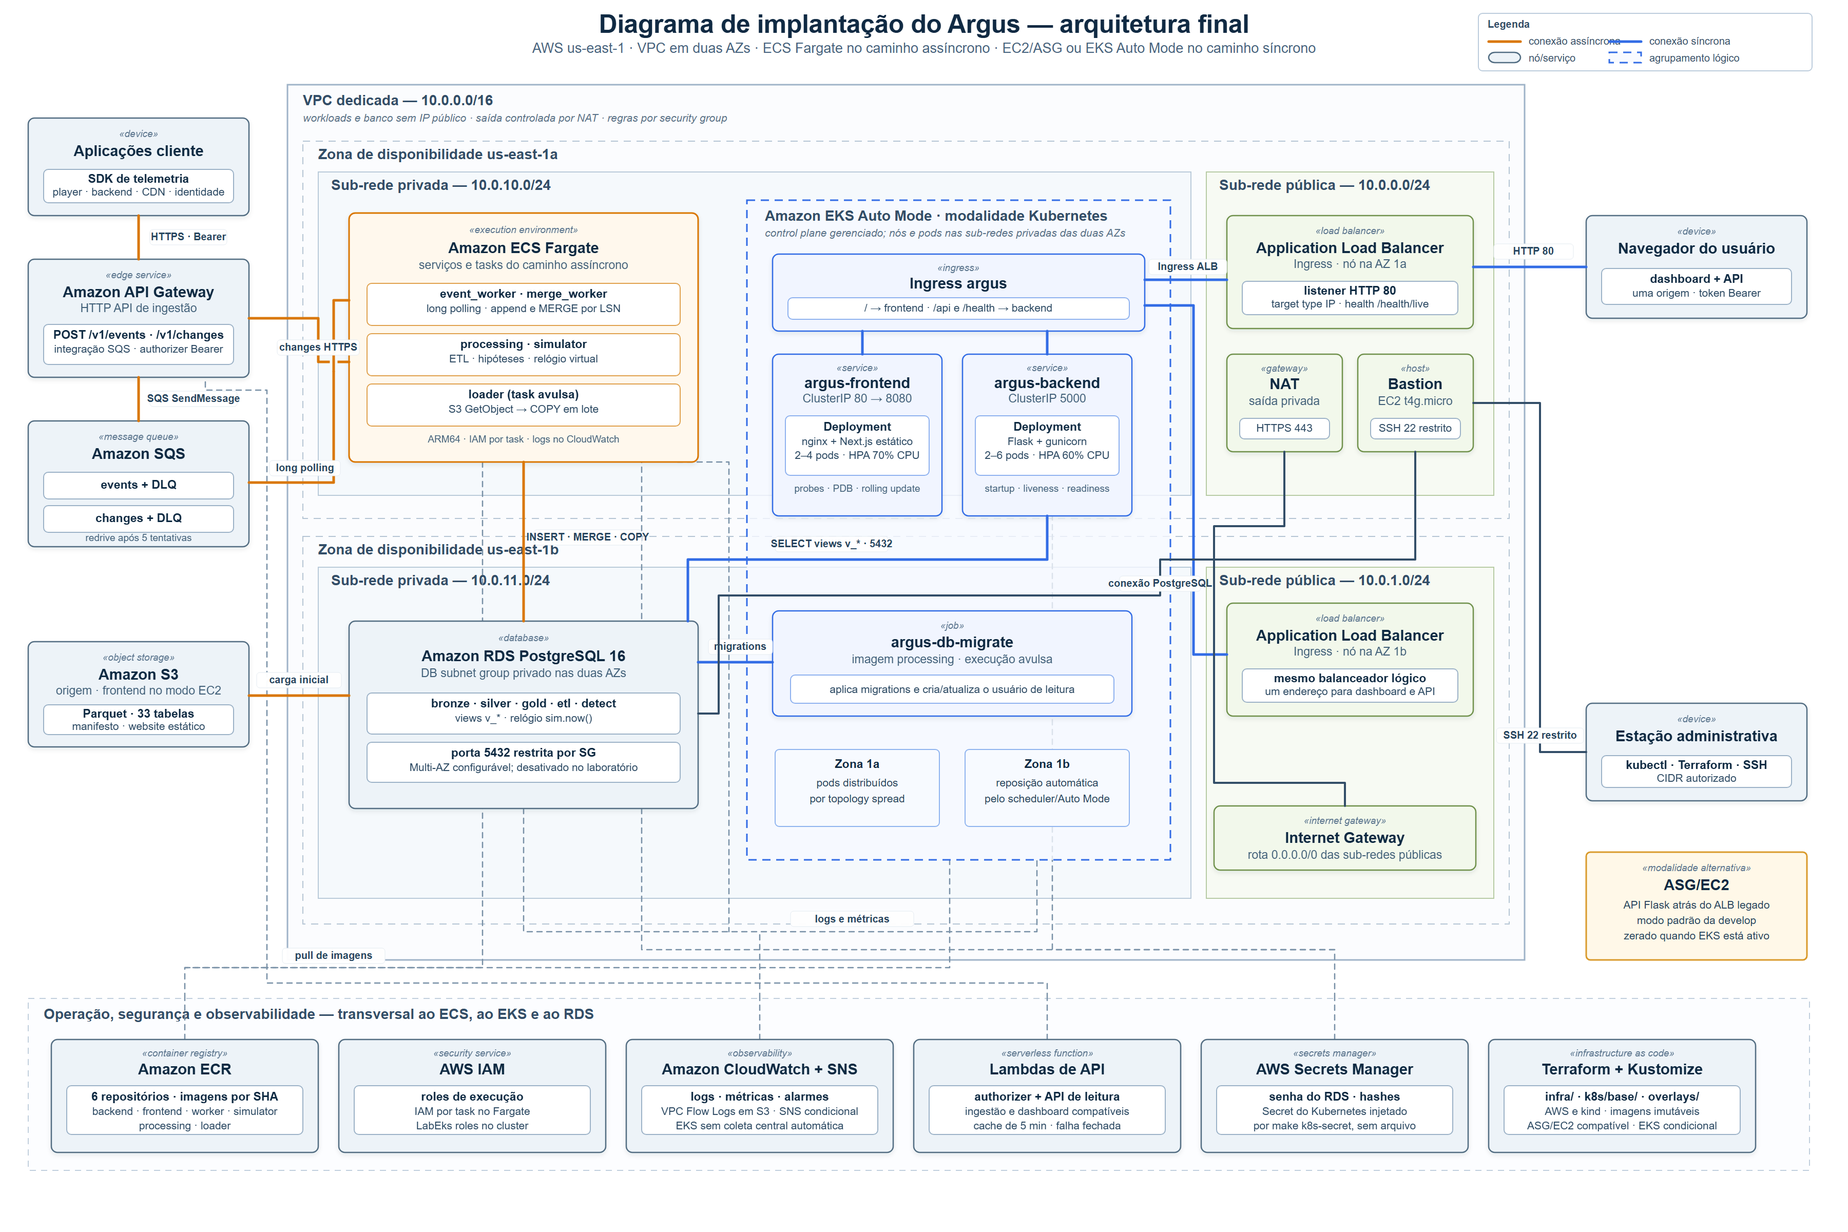
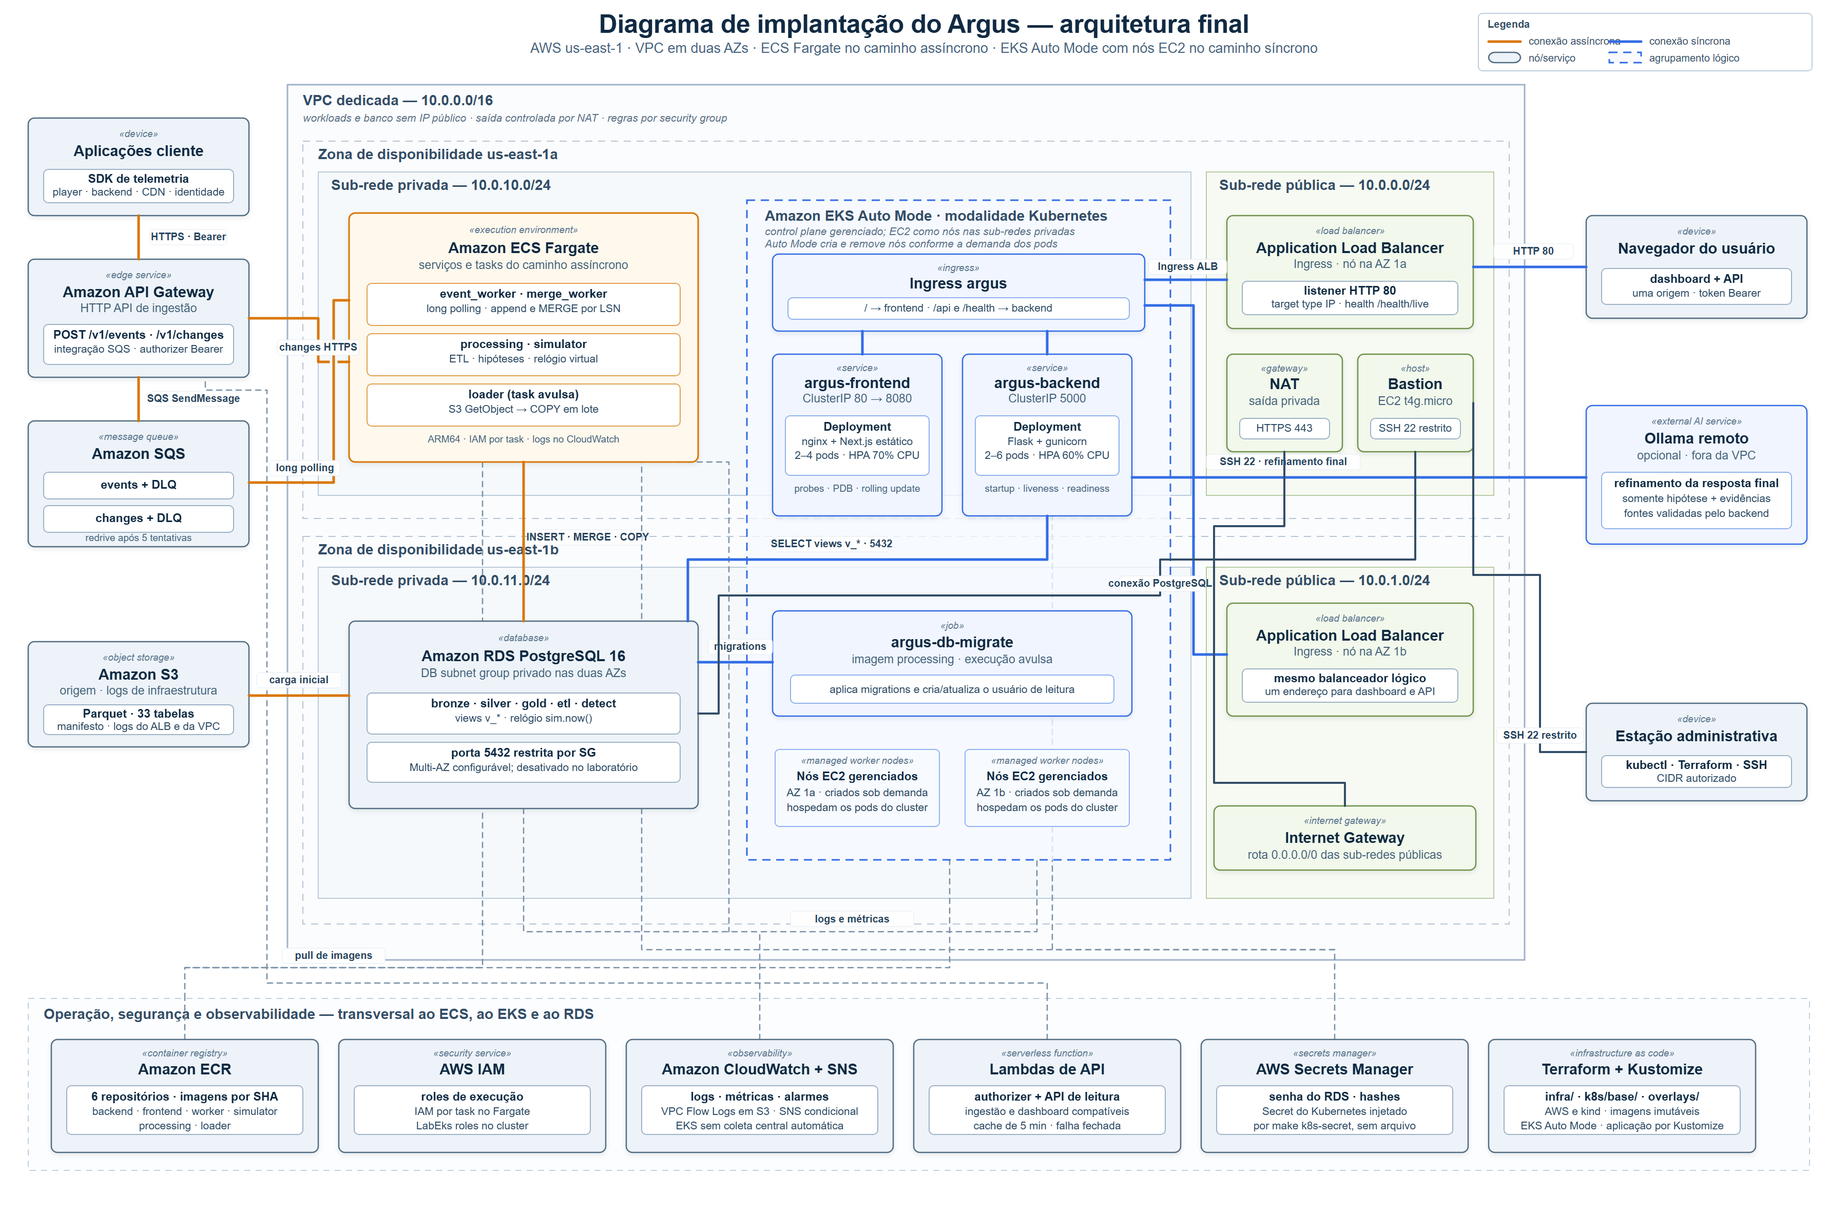
docs: atualiza documentação sobre ollama e o kubernets

diff --git a/artefatos/arquitetura-final.md b/artefatos/arquitetura-final.md
@@ -2,7 +2,7 @@
 
 ## 1. Diagrama de implantação
 
-<p align="center"><sub>Figura 1 - Diagrama de implantação da modalidade EKS</sub></p>
+<p align="center"><sub>Figura 1 - Diagrama de implantação da arquitetura final</sub></p>
 
 <div align="center">
 
@@ -12,31 +12,15 @@
 
 <p align="center"><sup>Fonte: autoria própria (2026).</sup></p>
 
-O diagrama parte da `arquitetura-implantacao-v4` e reúne as mudanças realizadas na
-Sprint 4. O sistema mantém recursos compatíveis com o caminho anterior baseado em
-Auto Scaling Group (ASG), Amazon Elastic Compute Cloud (EC2), S3 e Lambda, e acrescenta
-o Amazon Elastic Kubernetes Service (EKS) Auto Mode como modalidade síncrona
-alternativa. Em ambos os modos, o pipeline assíncrono permanece no Amazon Elastic
-Container Service (ECS) Fargate.
+O diagrama representa a arquitetura final em uso na Sprint 4. O caminho síncrono é
+orquestrado pelo Amazon Elastic Kubernetes Service (EKS) Auto Mode, que provisiona e
+remove automaticamente instâncias EC2 gerenciadas. Essas instâncias atuam como
+*worker nodes* e hospedam os pods do frontend e do backend. O pipeline assíncrono
+permanece no Amazon Elastic Container Service (ECS) Fargate. O Ollama é uma
+integração externa e opcional usada somente para refinar a explicação final de uma
+hipótese já publicada, sem participar da ingestão, do processamento ou da persistência.
 
-### 1.1 Rota alternativa EC2/ASG
-
-<p align="center"><sub>Figura 2 - Diagrama da rota alternativa EC2/ASG</sub></p>
-
-<div align="center">
-
-![Rota alternativa EC2/ASG](./assets/arquitetura-implantacao-v4.png)
-
-</div>
-
-<p align="center"><sup>Fonte: autoria própria (2026).</sup></p>
-
-Esta figura mostra a implantação realizada na sprint 3: frontend no website
-S3, API Flask em EC2 no ASG atrás do ALB, bastion quando habilitado e RDS privado.
-Ela é usada quando `create_eks = false`. Ao habilitar o EKS, o ASG deve ser zerado
-manualmente, embora o ALB legado continue declarado pelo Terraform.
-
-### 1.2 Escopo e leitura dos diagramas
+### 1.1 Escopo e leitura do diagrama
 
 O Argus usa uma arquitetura distribuída híbrida dentro de uma Amazon Virtual Private
 Cloud (VPC) própria na região `us-east-1` e, no diagrama, o limite externo da VPC, as
@@ -63,15 +47,18 @@ estratégias de escala diferentes.
 2. **Processamento e carga.** `processing` e `simulator` permanecem como serviços
    Fargate. O `loader` é uma task avulsa que lê os Parquets do bucket de origem e
    executa a carga em lote no banco.
-3. **Consulta síncrona.** No modo EKS, o navegador acessa um Application Load
+3. **Consulta síncrona.** O navegador acessa um Application Load
    Balancer (ALB), criado pelo Ingress, que encaminha `/` ao frontend nginx e `/api`
    e `/health` à API Flask. Os dois `Services` são `ClusterIP`, portanto somente o
-   Ingress publica o sistema externamente. A configuração Terraform também mantém o
-   ALB/ASG legado, mesmo quando sua capacidade é zerada, porque esse ALB depende de
-   `create_network`, não de `create_eks`. A API de leitura Lambda + API Gateway
-   continua provisionada como compatibilidade e alternativa. No modo padrão da
-   `develop`, o dashboard é servido pelo website S3 e a API pode ser atendida pelo
-   ALB/EC2 ou pela API Gateway/Lambda, conforme o comando de operação utilizado.
+   Ingress publica o sistema externamente. Os pods são agendados em instâncias EC2
+   gerenciadas que o EKS Auto Mode cria como nós quando a capacidade existente não
+   comporta a carga. A API de leitura Lambda + API Gateway continua provisionada como
+   recurso de compatibilidade, mas o caminho síncrono principal representado no
+   diagrama é atendido pelos Deployments `argus-frontend` e `argus-backend` no EKS.
+   Quando o frontend usa a API real, a tela solicita automaticamente o refinamento da
+   hipótese por `POST /api/v1/hypotheses/{id}/refinement`. Só então o backend envia a
+   hipótese e suas evidências ao Ollama remoto por SSH, valida as fontes citadas na
+   resposta e devolve a explicação final ao navegador.
 4. **Persistência.** As consultas da API usam o usuário de leitura e as views `v_*`.
    O feedback de hipóteses é uma escrita controlada pela função `SECURITY DEFINER`
    `gold.submit_hypothesis_feedback`. Workers, loader e migrations usam credenciais
@@ -81,67 +68,54 @@ estratégias de escala diferentes.
 5. **Operação.** Amazon Elastic Container Registry (ECR), Identity and Access
    Management (IAM), Secrets Manager, CloudWatch, Simple Notification Service (SNS)
    e Terraform formam o plano transversal de imagens, identidade, segredos,
-   observabilidade e infraestrutura como código. Kustomize é usado na modalidade EKS.
+   observabilidade e infraestrutura como código. Kustomize descreve a orquestração
+   dos componentes no EKS.
 
-### 1.3 Componentes e justificativas
+### 1.2 Componentes e justificativas
 
 | Componente / nó | Responsabilidade e artefatos implantados | Justificativa técnica |
 |---|---|---|
 | **Amazon API Gateway + Lambda authorizer** | Expõe `POST /v1/events` e `POST /v1/changes`, integra diretamente com o SQS e valida o token Bearer pelo hash armazenado no Secrets Manager. | A integração direta reduz componentes intermediários e latência na borda. O authorizer centraliza a autenticação, usa cache de cinco minutos e falha de forma fechada quando o segredo não pode ser validado. |
 | **Amazon SQS e DLQs** | Mantém filas independentes para eventos e mudanças, ambas com política de redrive para DLQ após cinco tentativas. | Desacopla recepção e processamento, absorve rajadas e preserva mensagens problemáticas para diagnóstico e reprocessamento sem bloquear toda a ingestão. |
 | **Amazon ECS Fargate** | Executa os serviços `event_worker`, `merge_worker`, `processing` e `simulator`, além da task avulsa `loader`. | O pipeline assíncrono já recebe estado desejado, reinicialização e isolamento por task sem administrar servidores. Ele permanece no Fargate porque os consumidores precisam de IAM por task para acessar SQS, S3 e outros serviços AWS. |
-| **Amazon EC2 + Auto Scaling Group** | Executa a API Flask com Gunicorn nas instâncias do ASG, usando um launch template e recebendo tráfego pelo ALB. Permanece como caminho padrão ou alternativo quando o EKS não está ativo. | Mantém a implantação da arquitetura anterior e permite escalar ou substituir instâncias com base na saúde dos alvos. Quando o EKS é habilitado, a capacidade do ASG precisa ser zerada manualmente. |
-| **Amazon EKS Auto Mode** | Na modalidade EKS, orquestra o caminho síncrono no namespace `argus`, reunindo os Deployments do frontend e do backend, Services, Ingress, Horizontal Pod Autoscalers (HPAs), Pod Disruption Budgets (PDBs) e o Job `argus-db-migrate`. | Substitui o contêiner iniciado manualmente pelo `user_data` do ASG por reconciliação contínua, reposição de pods, escalonamento e *rolling update*. O Auto Mode fornece compute, rede e controlador de ALB gerenciados, compatíveis com as restrições de IAM do Learner Lab. |
-| **Ingress + Application Load Balancer** | Na modalidade EKS, o Ingress cria um ALB que encaminha `/` para `argus-frontend` e `/api` e `/health` para `argus-backend`, registrando diretamente os IPs dos pods. O Terraform também mantém o ALB legado do ASG quando `create_network = true`. | A origem única elimina o CORS entre dashboard e API no modo EKS. O ALB legado continua provisionado como compatibilidade, mesmo quando o ASG é zerado. |
-| **Frontend** | No modo EKS, o `Deployment argus-frontend` serve o export estático do Next.js em nginx, com 2 réplicas mínimas, HPA até 4, sondas, PDB e atualização gradual. No modo padrão, o export é servido pelo website S3. | O nginx no EKS permite compartilhar a origem com a API. O S3 continua sendo a hospedagem da configuração padrão da `develop`. |
-| **API de leitura** | A API de leitura é provisionada como Lambda Flask atrás de API Gateway e também pode ser executada como Flask + gunicorn em EC2/ASG. Na modalidade EKS, o `Deployment argus-backend` executa a mesma API na porta 5000, com 2 a 6 pods, HPA por CPU, probes, PDB e `preStop`. | Lambda/API Gateway e EC2/ASG permanecem como compatibilidade e alternativa. O EKS oferece reposição de pods e *rolling update* quando ativado. |
-| **Migration** | No modo EKS, o `Job argus-db-migrate` usa a imagem `processing`. A configuração ECS mantém também uma task avulsa de migration para o modo EC2. | Migration é execução finita, portanto um Job representa melhor seu ciclo de vida no Kubernetes. A task ECS permanece disponível para a implantação anterior. |
+| **Amazon EKS Auto Mode** | Orquestra o caminho síncrono no namespace `argus`, provisiona instâncias EC2 gerenciadas como *worker nodes* e reúne os Deployments do frontend e do backend, Services, Ingress, Horizontal Pod Autoscalers (HPAs), Pod Disruption Budgets (PDBs) e o Job `argus-db-migrate`. | Fornece reconciliação contínua, reposição de pods, escalonamento e *rolling update*. Quando faltam recursos para pods pendentes, o Auto Mode cria novos nós EC2 e, quando a capacidade deixa de ser necessária, pode removê-los. Ele também fornece rede e controlador de ALB gerenciados, compatíveis com as restrições de IAM do Learner Lab. |
+| **Ingress + Application Load Balancer** | O Ingress cria um ALB que encaminha `/` para `argus-frontend` e `/api` e `/health` para `argus-backend`, registrando diretamente os IPs dos pods. | A origem única elimina o CORS entre dashboard e API, enquanto o registro direto dos IPs evita um salto adicional por `NodePort`. |
+| **Frontend** | O `Deployment argus-frontend` serve o export estático do Next.js em nginx, com 2 réplicas mínimas, HPA até 4, sondas, PDB e atualização gradual. | O nginx no EKS permite compartilhar a origem com a API e manter a mesma imagem em diferentes ambientes. |
+| **API de leitura** | O `Deployment argus-backend` executa a API Flask + gunicorn na porta 5000, com 2 a 6 pods, HPA por CPU, probes, PDB e `preStop`. Além das consultas determinísticas, expõe `POST /api/v1/hypotheses/{id}/refinement`. A Lambda Flask atrás de API Gateway continua provisionada como recurso de compatibilidade. | O EKS oferece reposição de pods, escala horizontal e *rolling update* para o caminho síncrono principal. |
+| **Ollama remoto (opcional)** | Refina a explicação apresentada ao usuário com base exclusiva na hipótese publicada e em suas evidências. O backend abre uma sessão SSH com o servidor externo e executa nele a chamada HTTP ao Ollama; cada afirmação retornada precisa citar uma fonte válida. | Mantém o modelo fora do motor determinístico: ele não cria hipóteses, não altera score ou evidências e não grava dados. Falha de rede, resposta inválida ou fonte inexistente resulta em `503`, sem resposta parcialmente fundamentada. A integração só é ativada quando `OLLAMA_URL` e as variáveis `OLLAMA_SSH_*` são fornecidas; os manifests Kubernetes base ainda não as injetam. |
+| **Migration** | O `Job argus-db-migrate` usa a imagem `processing` para aplicar as migrations e criar ou atualizar o usuário de leitura. | Migration é uma execução finita, portanto um Job representa melhor seu ciclo de vida no Kubernetes. |
 | **Amazon RDS PostgreSQL 16** | Mantém as camadas `bronze`, `silver`, `gold`, `etl`, `detect`, o relógio `sim.now()` e as views `v_*`, com um DB subnet group que abrange as duas zonas de disponibilidade (AZs) e permite habilitar o modo Multi-AZ. | O modelo relacional preserva transações, constraints, MERGE por LSN e consultas analíticas, enquanto a instância privada e o usuário de leitura com menor privilégio reduzem a exposição. No laboratório, mantivemos o Multi-AZ desligado por custo, mas em produção ele deve ser habilitado. |
-| **VPC, sub-redes, Network Address Translation (NAT) e Internet Gateway** | Quando `create_network = true`, mantém EKS, Fargate, ASG e RDS nas sub-redes privadas, enquanto ALBs, NAT e, se habilitado, o bastion ficam nas públicas. | A topologia em duas zonas reduz o domínio de falha e impede a entrada direta da internet nos workloads e no banco. As tags `kubernetes.io/role/*` ajudam o EKS a identificar onde criar o ALB e os nós. |
+| **VPC, sub-redes, Network Address Translation (NAT) e Internet Gateway** | Mantém as instâncias EC2 gerenciadas do EKS, Fargate e RDS nas sub-redes privadas, enquanto ALBs, NAT e, se habilitado, o bastion ficam nas públicas. | A topologia em duas zonas reduz o domínio de falha e impede a entrada direta da internet nos workloads e no banco. As tags `kubernetes.io/role/*` ajudam o EKS a identificar onde criar o ALB e os nós. |
 | **Bastion Host** | É um componente opcional, criado somente quando `bastion_key_name` é preenchido. Quando habilitado, permite SSH e acesso administrativo controlado aos recursos privados. | Mantém um caminho administrativo sem expor o RDS diretamente. O bastion não faz parte obrigatória de toda implantação. |
-| **Amazon Simple Storage Service (S3)** | O bucket `origem` armazena os Parquets e o manifesto usados na carga inicial. Buckets separados recebem os access logs do ALB. O website S3 continua hospedando o frontend no modo padrão. | O S3 oferece alta durabilidade para objetos imutáveis e evidências operacionais. No modo EKS, o dashboard é servido pela imagem nginx. O recurso S3 continua declarado para manter a implantação anterior disponível. |
+| **Amazon Simple Storage Service (S3)** | O bucket `origem` armazena os Parquets e o manifesto usados na carga inicial. Buckets separados recebem os access logs do ALB e os VPC Flow Logs. | O S3 oferece alta durabilidade para objetos imutáveis e evidências operacionais, enquanto o dashboard do caminho principal é servido pelo nginx no EKS. |
 | **Amazon ECR** | Armazena seis imagens: `backend`, `frontend`, `worker`, `simulator`, `processing` e `loader`, publicadas com tag derivada do SHA. | A versão explícita torna o deploy rastreável e permite rollback sem a ambiguidade de `latest`. Backend e frontend são publicados para `amd64` e `arm64`, pois os nós EKS e o Fargate usam arquiteturas diferentes. |
 | **CloudWatch + SNS** | Mantém alarmes e logs dos componentes AWS. O SNS envia notificações quando `alarm_email` está preenchido e a assinatura foi confirmada. Os VPC Flow Logs são enviados para S3 por padrão, embora o destino CloudWatch possa ser configurado. Os pods EKS não possuem coleta centralizada de logs e métricas por padrão. | A observabilidade cobre principalmente filas, ECS, RDS, ALB e infraestrutura Terraform. O ambiente ainda depende de uma configuração adicional para acompanhar o EKS de forma centralizada. |
 | **IAM + Secrets Manager + Secret do Kubernetes** | O IAM define os papéis de acesso e o Secrets Manager protege credenciais e hashes. O comando `make k8s-secret` cria o Secret `argus-backend` no cluster sem versionar esse recurso Kubernetes. Alguns valores relacionados ao EKS aparecem em outputs sensíveis e continuam no Terraform state. | IRSA e Pod Identity são bloqueados no Learner Lab. Por isso, os workloads EKS não chamam APIs AWS e os workers continuam usando IAM por task no Fargate. |
-| **Terraform + Kustomize** | O Terraform provisiona a infraestrutura na AWS, enquanto a base Kustomize descreve os objetos comuns e os overlays `aws` e `kind` adaptam entrada, imagens, réplicas e configuração para cada ambiente. | Essa combinação mantém a infraestrutura e a orquestração reproduzíveis, revisáveis e portáveis, mas o modo EKS depende de `create_eks = true` e de aplicação separada dos manifests. |
+| **Terraform + Kustomize** | O Terraform provisiona a infraestrutura na AWS, enquanto a base Kustomize descreve os objetos comuns e os overlays `aws` e `kind` adaptam entrada, imagens, réplicas e configuração para cada ambiente. | Essa combinação mantém a infraestrutura e a orquestração reproduzíveis, revisáveis e portáveis. Os manifests são aplicados separadamente depois que o Terraform disponibiliza o cluster. |
 
-### 1.4 Como o EKS altera o caminho síncrono
+### 1.3 Camada de execução no EKS Auto Mode
 
-Na arquitetura v4, a API de leitura era executada em instâncias EC2 de um Auto Scaling Group,
-de leitura, com cada instância iniciando o contêiner pelo `user_data` e recebendo
-tráfego do Application Load Balancer. A solução funcionava, mas a recuperação
-dependia da substituição de uma instância inteira e cada atualização da aplicação
-exigia um novo ciclo do ASG.
+O frontend e o backend são executados no EKS Auto Mode, com reposição automática
+de pods, atualização gradual, HPA e PDB. O dashboard e a API são publicados pelo
+mesmo Ingress e pelo mesmo ALB, permitindo compartilhar a origem e recuperar
+rapidamente o caminho síncrono quando um contêiner falha.
 
-Na modalidade EKS, levamos o frontend e o backend para o EKS Auto Mode e passamos a
-contar com reposição automática de pods, atualização gradual, HPA e PDB, além de
-publicar o dashboard e a API pelo mesmo Ingress e pelo mesmo ALB. Com isso, essa
-modalidade do caminho síncrono se recupera mais rapidamente quando um contêiner falha.
+O Ollama entra somente depois que a API recupera uma hipótese já publicada. O
+frontend solicita automaticamente sua explicação refinada, o backend limita o contexto
+à hipótese e às evidências disponíveis e valida se todas as afirmações citam fontes
+existentes antes de retornar a resposta ao usuário. Assim, a indisponibilidade do
+modelo afeta apenas esse refinamento opcional e não interfere no pipeline determinístico.
 
-O EC2 não é removido do Terraform. Quando `create_eks = true`, a capacidade do ASG
-deve ser configurada manualmente como zero (`asg_min_size = 0` e
-`asg_desired_capacity = 0`) para que ele não execute simultaneamente com o cluster.
-Quando `create_eks = false`, o ASG permanece como o caminho síncrono da implantação
-e recebe tráfego pelo ALB. O card separado no diagrama representa a alternativa EC2,
-não uma garantia de que ela esteja inativa em todo ambiente.
-
-As principais mudanças entre as duas versões foram estas:
-
-| Elemento da v4 | Arquitetura final | Estado |
-|---|---|---|
-| API de leitura em contêiner iniciado por `user_data` no ASG/EC2 | `Deployment argus-backend` no EKS | Continua sendo o modo padrão quando `create_eks = false`. É substituído pelo EKS quando `create_eks = true` e o ASG é zerado |
-| Dashboard estático no website S3 | `Deployment argus-frontend` com nginx no EKS | Continua no modo padrão. No EKS, é servido pelo nginx para compartilhar a origem com a API |
-| Migration como task avulsa do ECS | `Job argus-db-migrate` | A task ECS continua disponível. O Job é usado na modalidade EKS |
+O EKS Auto Mode não elimina o uso de EC2. Quando o scheduler identifica pods pendentes
+e os nós existentes não têm capacidade suficiente, o mecanismo de provisionamento do
+Auto Mode cria novas instâncias EC2 gerenciadas para atuarem como *worker nodes*. O
+scheduler então aloca os pods nesses nós, e os contêineres e processos da aplicação
+são executados dentro dos pods.
 
 A escolha por duas plataformas foi intencional, já que o EKS atende às necessidades
 do frontend e da API de leitura, enquanto o Fargate continua adequado para os workers
 e para as tasks de processamento, que já são desacoplados pelo SQS e precisam de IAM
 por task para acessar outros serviços da AWS.
-
-No modo EKS, `min = 0` e `desired = 0` representam a configuração necessária para
-não manter instâncias do ASG em execução durante a operação normal. No modo padrão
-da `develop`, o exemplo de configuração usa duas instâncias no ASG. A escolha do
-modo depende de `create_eks` e dos valores de capacidade definidos no Terraform.
 
 
 ## 2. Inventário de contêineres, Docker e Kubernetes
